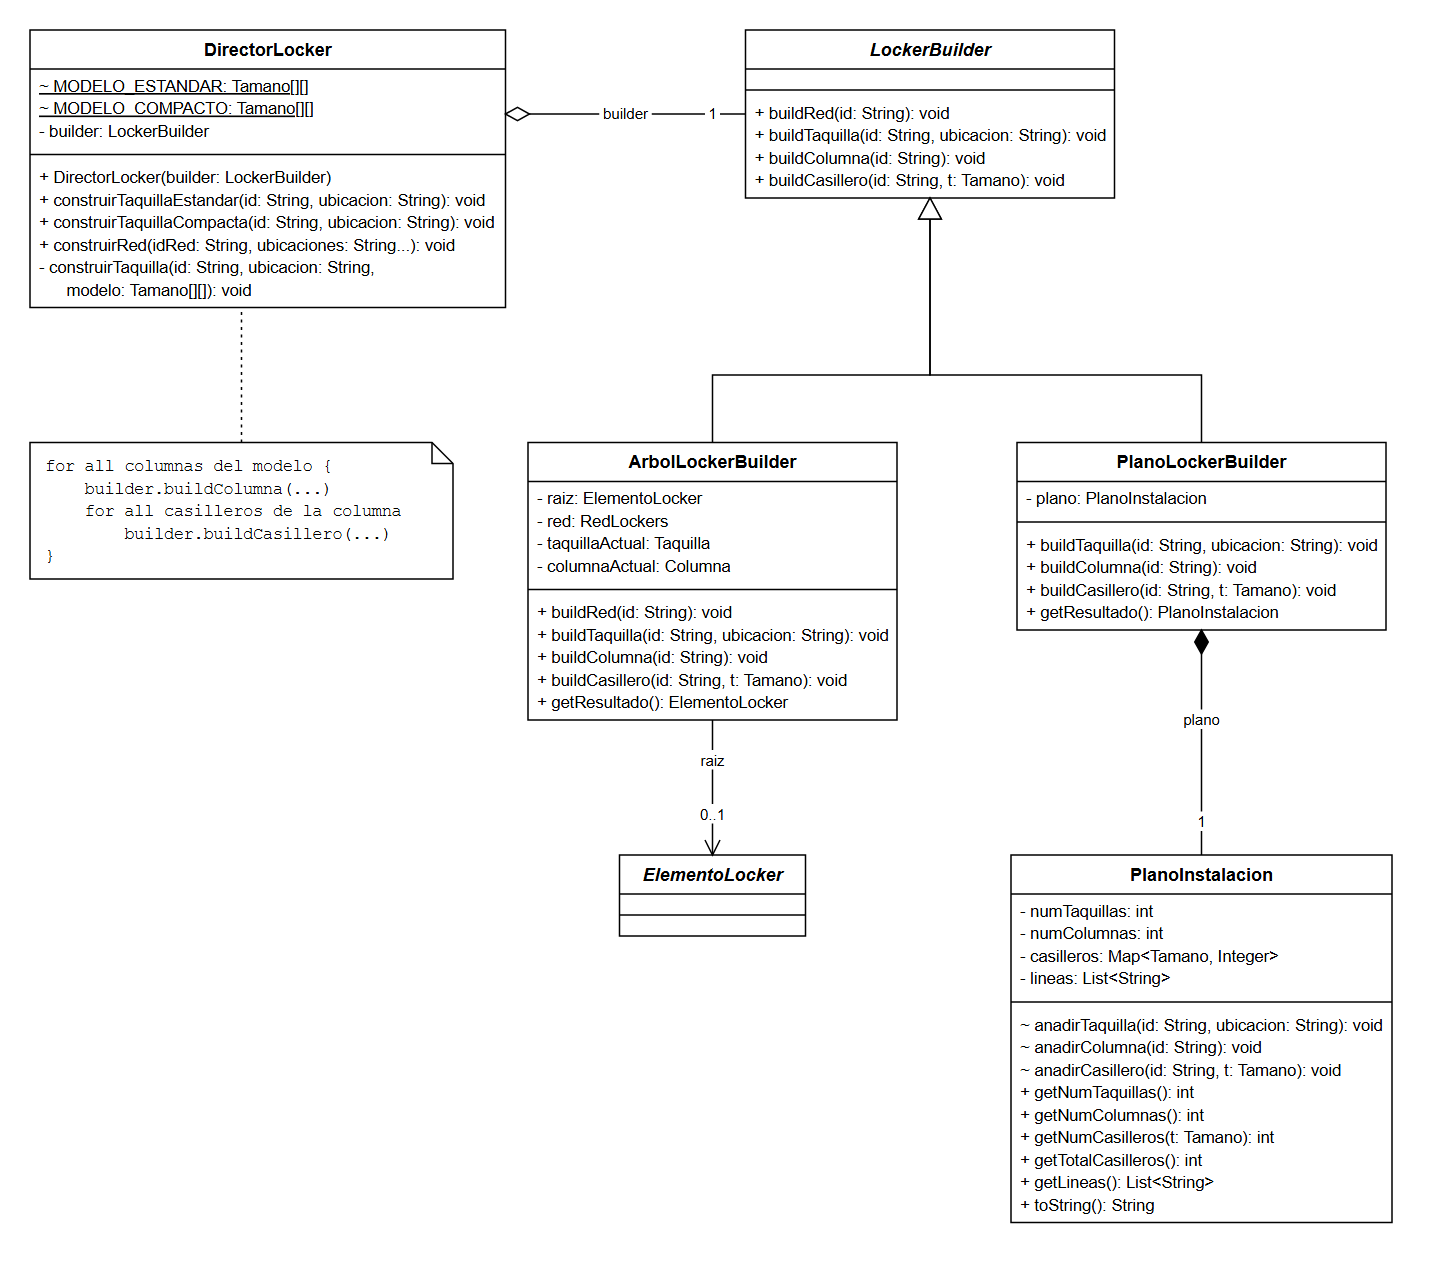
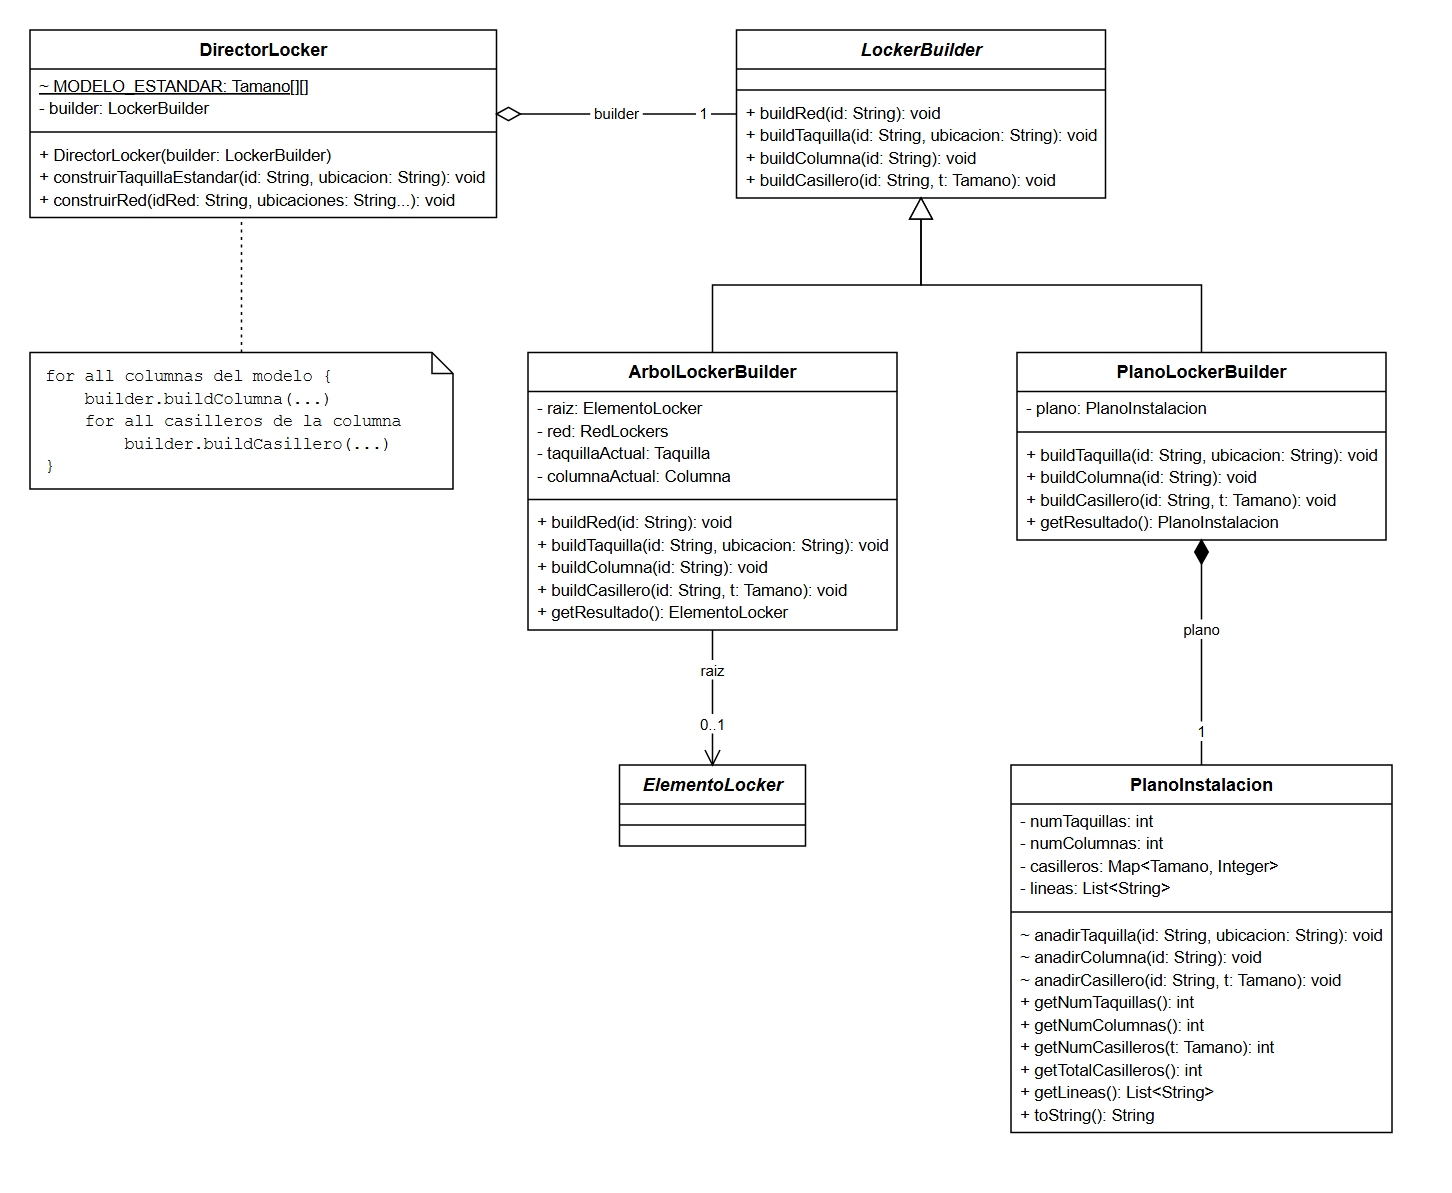
Builder: dejar solo el modelo de taquilla estándar

diff --git a/src/main/java/amazonlocker/builder/DirectorLocker.java b/src/main/java/amazonlocker/builder/DirectorLocker.java
@@ -9,7 +9,7 @@ import static amazonlocker.composite.Tamano.PEQUENO;
 /**
  * Rol DIRECTOR del patrón Builder.
  *
- * Conoce los modelos de taquilla que instala Amazon y el orden en que se
+ * Conoce el modelo de taquilla que instala Amazon y el orden en que se
  * montan sus partes, pero no sabe qué representación se está generando:
  * solo habla con la interfaz {@link LockerBuilder}.
  */
@@ -22,11 +22,6 @@ public class DirectorLocker {
             {GRANDE, GRANDE}
     };
 
-    /** Modelo compacto para tiendas pequeñas: 1 columna (2 pequeños, 1 mediano). */
-    static final Tamano[][] MODELO_COMPACTO = {
-            {PEQUENO, PEQUENO, MEDIANO}
-    };
-
     private final LockerBuilder builder;
 
     public DirectorLocker(LockerBuilder builder) {
@@ -36,12 +31,19 @@ public class DirectorLocker {
         this.builder = builder;
     }
 
+    /**
+     * for all objects in structure { builder.buildPart() }
+     * Ids: columnas T1-A, T1-B...; casilleros T1-A1, T1-A2...
+     */
     public void construirTaquillaEstandar(String id, String ubicacion) {
-        construirTaquilla(id, ubicacion, MODELO_ESTANDAR);
-    }
-
-    public void construirTaquillaCompacta(String id, String ubicacion) {
-        construirTaquilla(id, ubicacion, MODELO_COMPACTO);
+        builder.buildTaquilla(id, ubicacion);
+        for (int col = 0; col < MODELO_ESTANDAR.length; col++) {
+            String idColumna = id + "-" + (char) ('A' + col);
+            builder.buildColumna(idColumna);
+            for (int fila = 0; fila < MODELO_ESTANDAR[col].length; fila++) {
+                builder.buildCasillero(idColumna + (fila + 1), MODELO_ESTANDAR[col][fila]);
+            }
+        }
     }
 
     /**
@@ -52,21 +54,6 @@ public class DirectorLocker {
         builder.buildRed(idRed);
         for (int i = 0; i < ubicaciones.length; i++) {
             construirTaquillaEstandar("T" + (i + 1), ubicaciones[i]);
-        }
-    }
-
-    /**
-     * for all objects in structure { builder.buildPart() }
-     * Ids: columnas T1-A, T1-B...; casilleros T1-A1, T1-A2...
-     */
-    private void construirTaquilla(String id, String ubicacion, Tamano[][] modelo) {
-        builder.buildTaquilla(id, ubicacion);
-        for (int col = 0; col < modelo.length; col++) {
-            String idColumna = id + "-" + (char) ('A' + col);
-            builder.buildColumna(idColumna);
-            for (int fila = 0; fila < modelo[col].length; fila++) {
-                builder.buildCasillero(idColumna + (fila + 1), modelo[col][fila]);
-            }
         }
     }
 }

diff --git a/src/test/java/amazonlocker/builder/BuilderTest.java b/src/test/java/amazonlocker/builder/BuilderTest.java
@@ -41,15 +41,6 @@ class BuilderTest {
     }
 
     @Test
-    void construyeUnaTaquillaCompacta() {
-        ArbolLockerBuilder builder = new ArbolLockerBuilder();
-        new DirectorLocker(builder).construirTaquillaCompacta("T9", "Tienda");
-        assertEquals(1, builder.getResultado().getNumeroHijos());
-        assertEquals(3, builder.getResultado().getTotalCasilleros());
-        assertNull(builder.getResultado().buscarCasilleroLibre(Tamano.GRANDE));
-    }
-
-    @Test
     void construyeUnaRedCompleta() {
         ArbolLockerBuilder builder = new ArbolLockerBuilder();
         new DirectorLocker(builder).construirRed("León", "Campus", "Estación", "Centro");
@@ -127,9 +118,10 @@ class BuilderTest {
     void ambasRepresentacionesCoinciden() {
         ArbolLockerBuilder arbol = new ArbolLockerBuilder();
         PlanoLockerBuilder plano = new PlanoLockerBuilder();
-        new DirectorLocker(arbol).construirTaquillaCompacta("T1", "Tienda");
-        new DirectorLocker(plano).construirTaquillaCompacta("T1", "Tienda");
-        assertEquals(arbol.getResultado().getTotalCasilleros(), plano.getResultado().getTotalCasilleros());
+        new DirectorLocker(arbol).construirTaquillaEstandar("T1", "Tienda");
+        new DirectorLocker(plano).construirTaquillaEstandar("T1", "Tienda");
+        assertEquals(9, arbol.getResultado().getTotalCasilleros());
+        assertEquals(9, plano.getResultado().getTotalCasilleros());
     }
 
     @Test

diff --git a/README.md b/README.md
@@ -191,7 +191,7 @@ representación se genera. El mismo proceso crea dos productos distintos.
 
 | Rol | Clase |
 |---|---|
-| **Director** | `DirectorLocker` (modelos `MODELO_ESTANDAR` y `MODELO_COMPACTO`) |
+| **Director** | `DirectorLocker` (modelo `MODELO_ESTANDAR`) |
 | **Builder** | `LockerBuilder` (abstracta) |
 | **ConcreteBuilder** | `ArbolLockerBuilder` y `PlanoLockerBuilder` |
 | **Product** | árbol de `ElementoLocker` y `PlanoInstalacion` |
